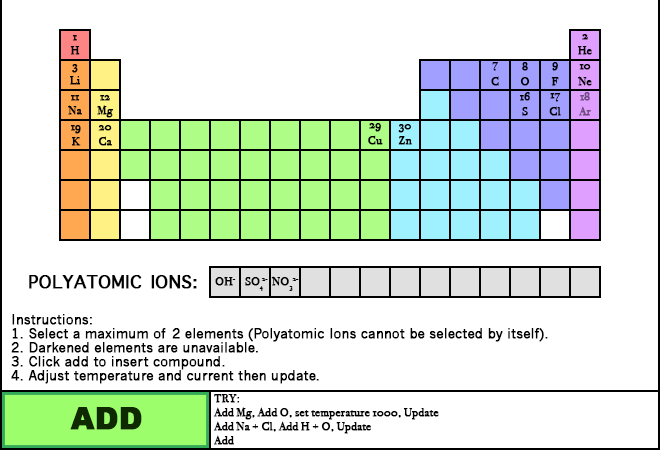
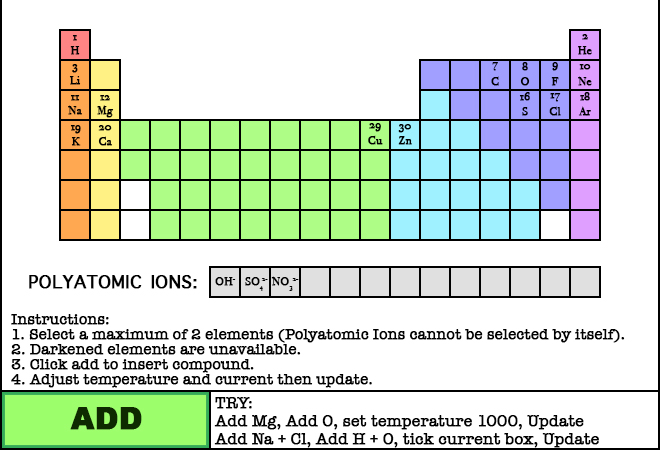
New!:
Grey text added to text boxes
Macroscopic view is default selection

- Michael

Changed region(s): [[0.0, 0.6844, 0.9394, 0.9956], [0.8788, 0.1867, 0.9091, 0.28]]

diff --git a/index.html b/index.html
@@ -193,7 +193,7 @@
         <div class="bottomBar">
             <div class="optionsBar">
                 <form id="update">
-                    Temperature(Celsius): <button type = "button" id = "negative" title = "negativeRadio" onclick="return negativeUpdate()"> - </button> <input id="tempTextBox" placeholder="25" title="Celsius">
+                    Temperature(Celsius): <button type = "button" id = "negative" title = "negativeRadio" onclick="return negativeUpdate()"> - </button> <input id="tempTextBox" placeholder="between -3000 & 3000" title="Celsius">
                     Current: <input type = "checkbox" id="currentCheck" title="Voltage" onclick="tempUpdate()">
                     <div id = "currentTemperature">Current Temperature: 25C</div>
                     <br>
@@ -1106,7 +1106,7 @@
         [new Reaction(["Cl2", "H2"], ["HCl"], true), "UV"],
         [new Reaction(["MgOH2"], ["Mg", "H2O"], ">100"), "temperature"],
         [new Reaction(["Mg", "O2"], ["MgO"], ">50"), "temperature"],
-        [new Reaction(["NaCl"], ["NaOH", "Cl2", "H2"], true), "current"],
+        [new Reaction(["NaCl"], ["NaOH", "Cl2", "H2"], ">20"), "current"],
 
 
 
@@ -1114,7 +1114,7 @@
         [new Reaction(["H2O", "F2"], ["HF", "O2"], true), "waterEnvironment"],
         [new Reaction(["Li", "O2"], ["Li2O"], ">0"), "temperature"],
         [new Reaction(["Li2O", "HCl"], ["LiCl", "H2O"], ">100"), "temperature"],
-        [new Reaction(["H2SO4"], ["H2","SO4"], true), "current"],
+        [new Reaction(["H2SO4"], ["H2","SO4"], ">20"), "current"],
         [new Reaction(["Li", "H2O"], ["LiOH"], true), "waterEnvironment"],
 //          [new Reaction(["Li", "H2O"], ["LiOH"], true), "waterEnvironment"],
     ];
@@ -1213,8 +1213,10 @@
         storedTemperature = document.getElementById("tempTextBox").value;
         current = document.getElementById("currentCheck").checked;
 
-        if (storedTemperature !== ""){
+        if (storedTemperature !== "" && storedTemperature >= -3000 && storedTemperature <= 3000){
             temperature = storedTemperature;
+        } else if (storedTemperature < -3000 || storedTemperature >3000) {
+            alert("Temperature out of range, must be between -3000 & 3000 inclusive")
         }
 
         if (current){
@@ -1232,8 +1234,8 @@
 
         document.getElementById("currentTemperature").innerHTML = "Current Temperature: " + tempText +"C";
 
+        document.getElementById("tempTextBox").value = "";
 
-        document.getElementById("tempTextBox").placeholder = temperature.toString();
     }
 
     function updateCompound(){
@@ -1506,7 +1508,6 @@
                 console.log(currentCompounds[i]);
             }
         }
-
 
         waterEnvironment = new Set(currentCompounds).has("H2O");
 

diff --git a/Atoms Design.html b/Atoms Design.html
@@ -193,7 +193,7 @@
         <div class="bottomBar">
             <div class="optionsBar">
                 <form id="update">
-                    Temperature(Celsius): <button type = "button" id = "negative" title = "negativeRadio" onclick="return negativeUpdate()"> - </button> <input id="tempTextBox" placeholder="25" title="Celsius">
+                    Temperature(Celsius): <button type = "button" id = "negative" title = "negativeRadio" onclick="return negativeUpdate()"> - </button> <input id="tempTextBox" placeholder="between -3000 & 3000" title="Celsius">
                     Current: <input type = "checkbox" id="currentCheck" title="Voltage" onclick="tempUpdate()">
                     <div id = "currentTemperature">Current Temperature: 25C</div>
                     <br>
@@ -1213,8 +1213,10 @@
         storedTemperature = document.getElementById("tempTextBox").value;
         current = document.getElementById("currentCheck").checked;
 
-        if (storedTemperature !== ""){
+        if (storedTemperature !== "" && storedTemperature >= -3000 && storedTemperature <= 3000){
             temperature = storedTemperature;
+        } else if (storedTemperature < -3000 || storedTemperature >3000) {
+            alert("Temperature out of range, must be between -3000 & 3000 inclusive")
         }
 
         if (current){
@@ -1232,8 +1234,8 @@
 
         document.getElementById("currentTemperature").innerHTML = "Current Temperature: " + tempText +"C";
 
+        document.getElementById("tempTextBox").value = "";
 
-        document.getElementById("tempTextBox").placeholder = temperature.toString();
     }
 
     function updateCompound(){
